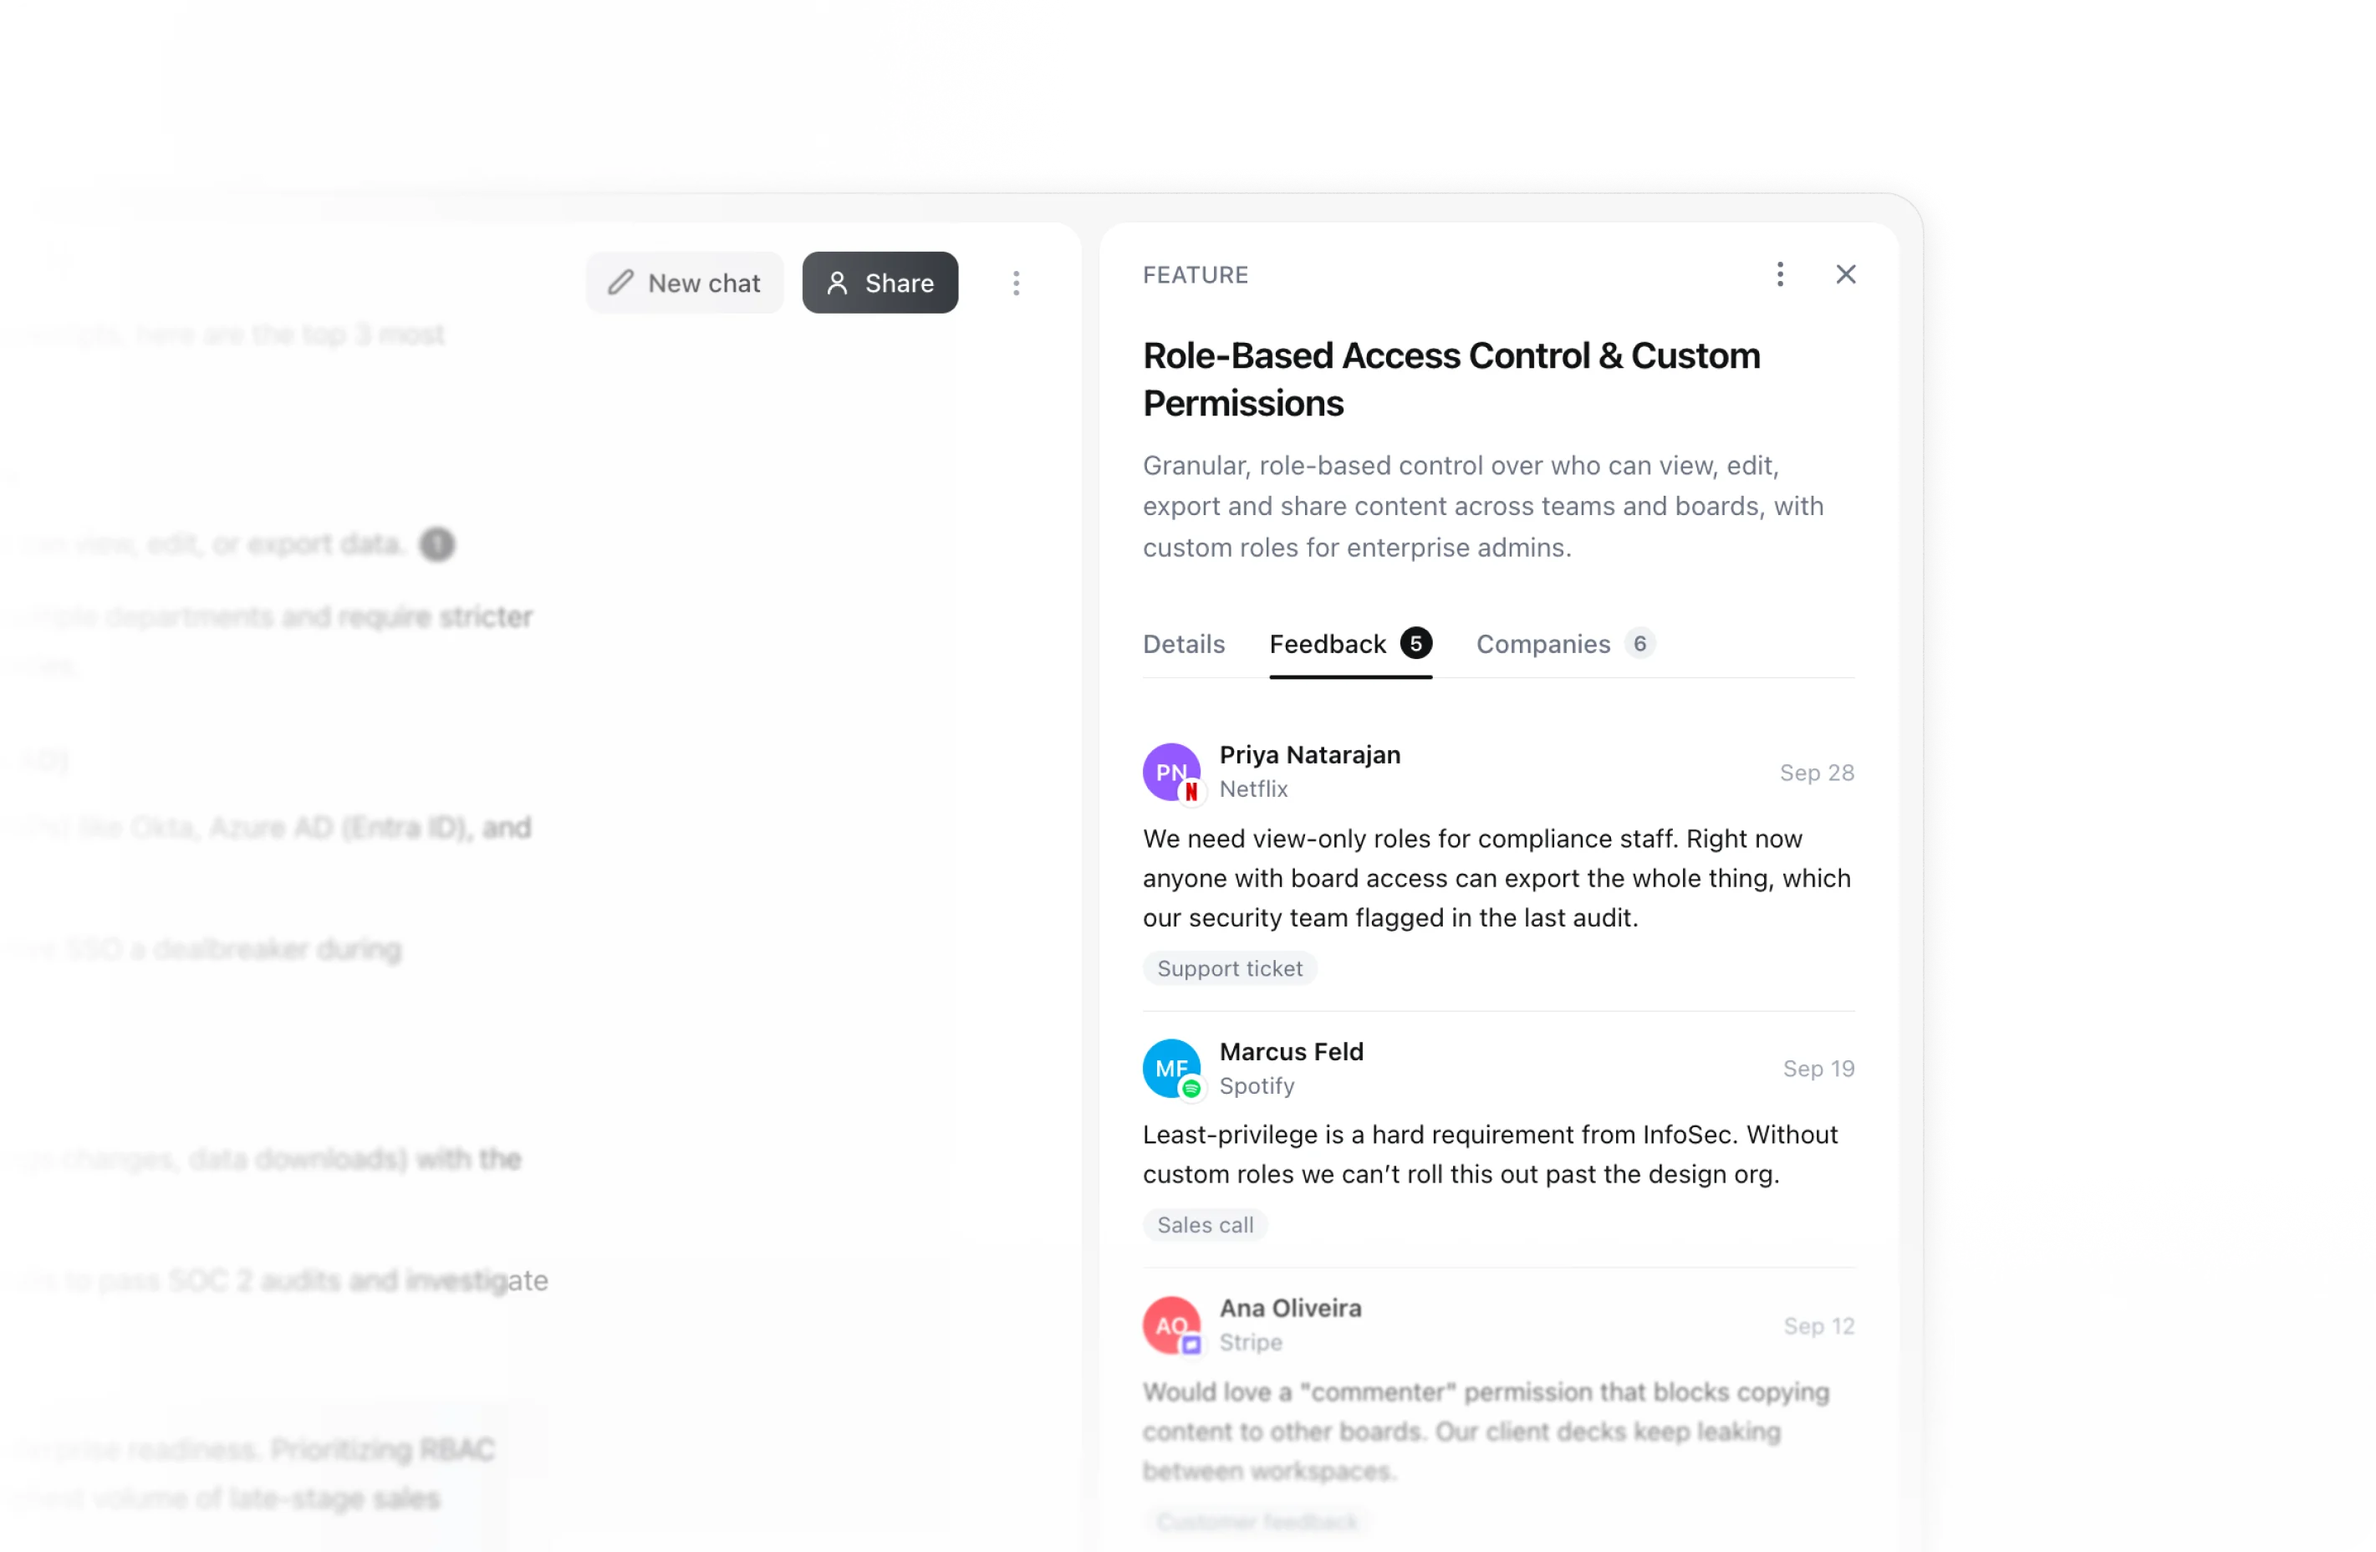
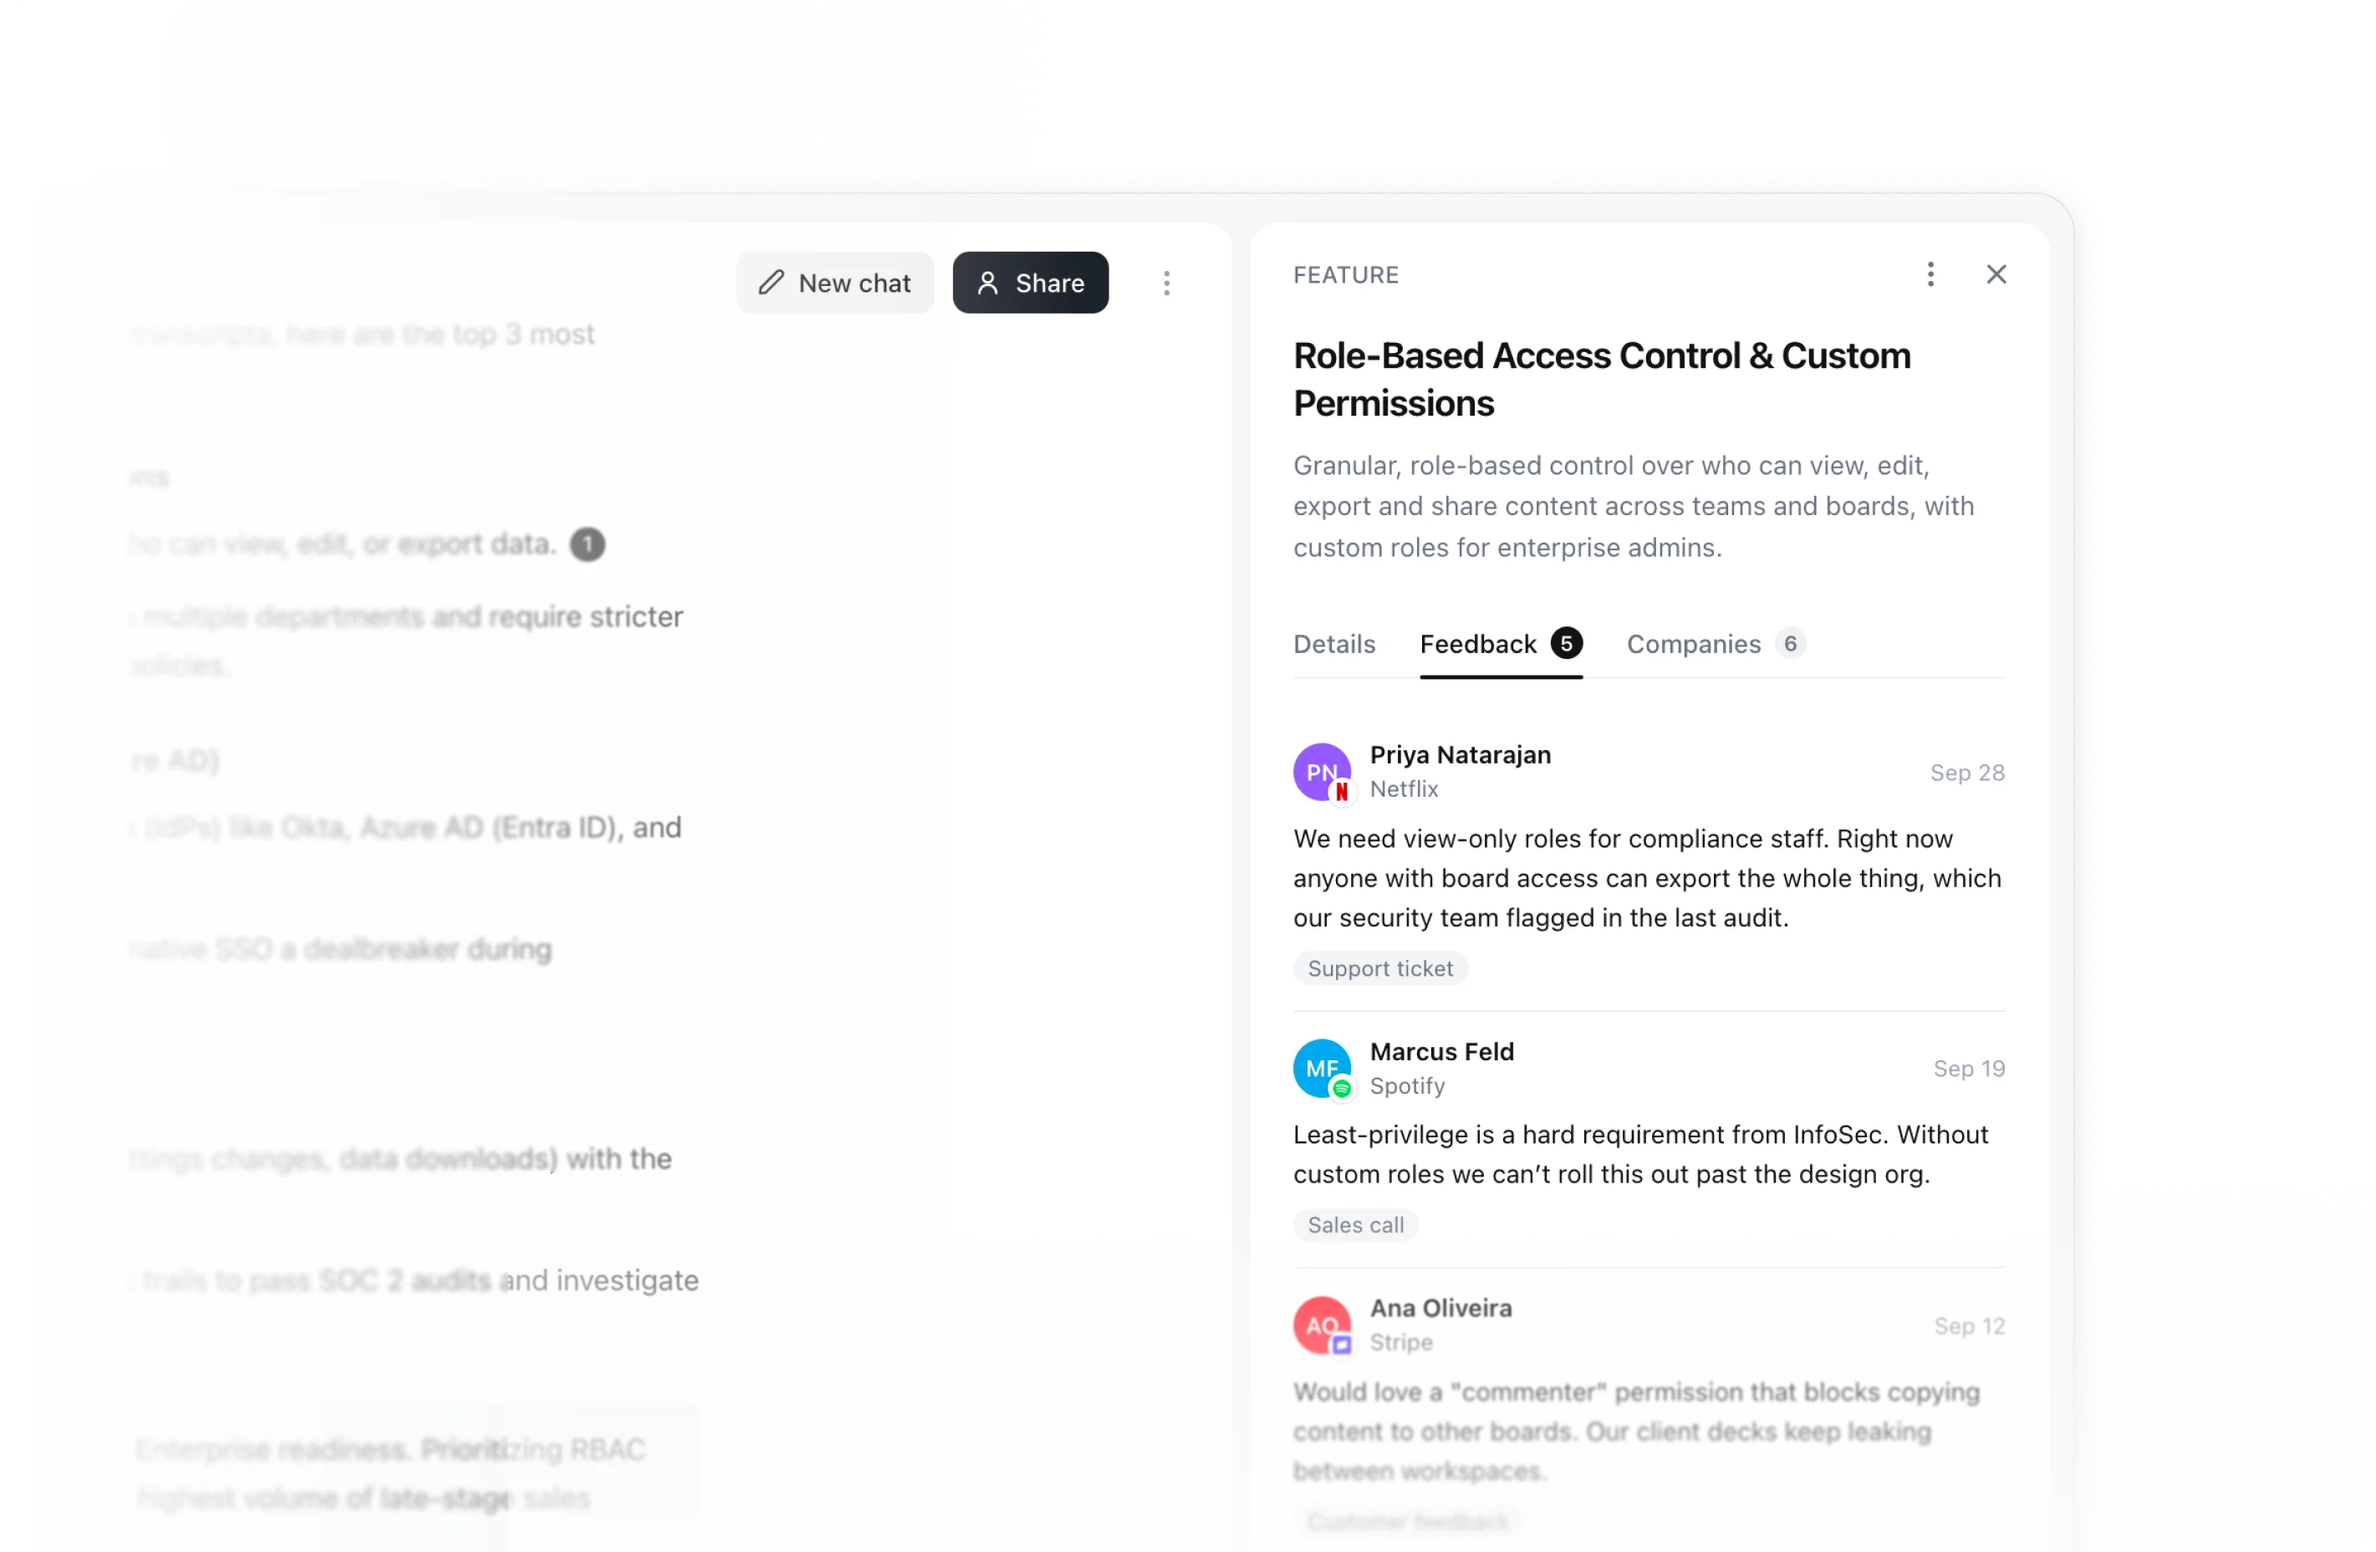
Ask Insights: new third detail shot

diff --git a/ask-ai/index.html b/ask-ai/index.html
@@ -77,7 +77,7 @@
       <img class="pc-detail pc-detail--scene animate-in" src="images/ask-ai-ui-2.webp" alt="A cited answer in Ask Insights: ranked feature requests with why each matters, a key takeaway, and the sources it drew on." width="2842" height="1856" loading="lazy" decoding="async" style="animation-delay:510ms">
       <p class="pc-detail-caption">Deep-linked and cited responses tied to the voice of the customer</p>
 
-      <img class="pc-detail pc-detail--scene animate-in" src="images/ask-ai-ui-3.webp" alt="A feature panel opened from a citation in Ask Insights, showing the Role-Based Access Control request with feedback quotes from named customers at Netflix, Spotify and Stripe." width="2842" height="1856" loading="lazy" decoding="async" style="animation-delay:530ms">
+      <img class="pc-detail pc-detail--scene animate-in" src="images/ask-ai-ui-3.webp?v=2" alt="A feature panel opened from a citation in Ask Insights, showing the Role-Based Access Control request with feedback quotes from named customers at Netflix, Spotify and Stripe." width="2842" height="1856" loading="lazy" decoding="async" style="animation-delay:530ms">
       <p class="pc-detail-caption">Feature request citation tied straight to customer conversations, meta data and the company CRM data.</p>
 
       <hr class="pc-rule animate-in" style="animation-delay:560ms" aria-hidden="true">
